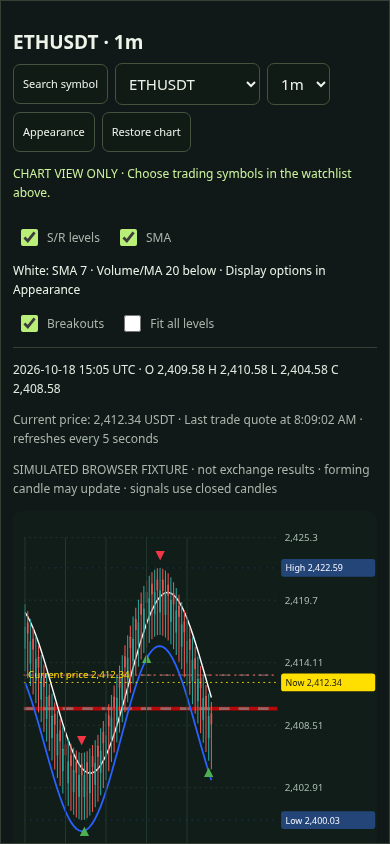
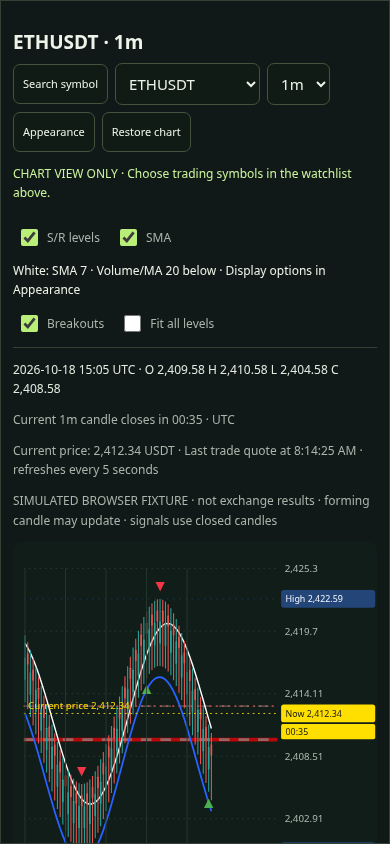
Show second-by-second candle close countdown alongside current price

Changed region(s): [[0.0308, 0.4929, 0.9846, 1.0]]

diff --git a/web/index.html b/web/index.html
@@ -1,3 +1,3 @@
 <!doctype html><html lang="en"><head><meta charset="utf-8"><meta name="viewport" content="width=device-width,initial-scale=1"><meta name="theme-color" content="#101918"><link rel="manifest" href="/manifest.webmanifest"><title>THOTH · Trading desk</title><style>
 *{box-sizing:border-box}[hidden]{display:none!important}body{margin:0;background:#101918;color:#edf3e8;font:15px system-ui}header,main{max-width:1150px;margin:auto;padding:24px}header{display:flex;justify-content:space-between;border-bottom:1px solid #354036}.brand{font-size:25px;letter-spacing:5px;font-weight:bold}small,p,label{color:#a8b5aa}h1{font-size:34px;font-weight:500}h2{font-size:19px}.badge,.green{color:#b9ee79}.badge{border:1px solid #536b43;padding:7px 12px;border-radius:20px;font-size:12px}.stats{display:grid;grid-template-columns:repeat(3,1fr);gap:14px}.card{padding:20px;background:#1a2521;border:1px solid #354036;border-radius:12px;margin-bottom:18px}.value{font-size:29px;margin-top:10px}.grid{display:grid;grid-template-columns:2fr 1fr;gap:20px;margin-top:6px}button,select,input{background:#111b16;color:#edf3e8;border:1px solid #45533e;border-radius:7px;padding:9px;font:inherit}button{cursor:pointer}.primary{background:#b9ee79;color:#13200f}label{display:flex;justify-content:space-between;align-items:center;margin:17px 0;font-size:13px}input[type=number]{width:88px}.row{display:flex;justify-content:space-between;gap:12px;align-items:center}svg{width:100%;height:290px}.legend{font-size:12px;line-height:1.8}table{width:100%;border-collapse:collapse;font-size:13px}td,th{padding:15px 3px;text-align:left;border-bottom:1px solid #354036}th{color:#a8b5aa;font-weight:400}.red{color:#fc9e91}.note{font-size:12px;line-height:1.6}.chips{display:flex;gap:12px;flex-wrap:wrap}.chips label{margin:8px 0;gap:6px}footer{font-size:12px;color:#a8b5aa;padding:20px 0}@media(max-width:750px){.grid{grid-template-columns:1fr}main,header{padding:16px}.stats{gap:8px}.stats .card{padding:12px}.value{font-size:23px}h1{font-size:29px}.row{flex-wrap:wrap}}
-</style><style>#coins{max-height:270px;overflow:auto}#events{padding-left:18px;font-size:12px;color:#a8b5aa;line-height:1.8}#price{width:110px}select{max-width:180px}input[type=search]{width:100%}dialog{max-width:min(480px,90vw);background:#1a2521;color:#edf3e8;border:1px solid #45533e;border-radius:12px}dialog input{max-width:100%}button:disabled{opacity:.5;cursor:not-allowed}fieldset:disabled{opacity:.65}.banner{border:1px solid #90753a;color:#ebce82;padding:12px;border-radius:8px;font-size:13px}</style><link rel="stylesheet" href="/desk.css"></head><body><header><div class="brand">THOTH<span class="green">.</span></div><div><span class="badge" id="fundsBadge">PAPER FUNDS</span> <button id="logout">Sign out</button></div></header><main><div class="banner">Paper, testnet and gated live modes · Live requires account checks and explicit activation. A server opt-in can skip verification; unverified trading can lose real funds. Experimental S/R port: TradingView comparison still pending.</div><div class="row"><h1>Your trading desk</h1><label>Funds view <select id="viewMode"><option value="paper">Paper simulation</option><option value="testnet">Bybit testnet</option><option value="live">LIVE · Real funds</option></select></label><div><button id="start" class="primary">Start paper mode</button> <button id="pause">Pause entries</button></div></div><p class="note"><span id="liveAccountState">Production execution: inactive</span> · Testnet and live use separate credentials</p><p id="readinessMessage" class="note" role="status">Readiness: checking…</p><button id="checkReadiness">Check readiness</button><p id="runnerHealth" class="note">Market worker: connecting</p><p id="status" role="status">Connecting to server…</p><section class="trade-summary" aria-label="Saved trading watchlist"><strong id="savedSymbols">Trading symbols: loading…</strong><p id="chartScope" class="note"></p><button id="editSymbols">Edit trading symbols ↓</button></section><div class="stats"><div class="card"><small id="equityLabel">Paper equity</small><div class="value" id="equity">—</div></div><div class="card"><small id="pnlLabel">Open paper P&L</small><div id="pnl" class="value green">—</div></div><div class="card"><small>Daily loss limit</small><div class="value"><span id="limit">—</span>%</div></div></div><div class="grid"><div><section class="card" id="symbolPanel"><div class="row"><div><small>TRADING WATCHLIST</small><h2>Symbols allowed to trade</h2></div><span id="selection" role="status"></span></div><p class="note">Click a symbol name to open its chart; use its checkbox to allow trading. Only saved selections can trigger orders. Settings are separate for each funds view.</p><input id="search" type="search" placeholder="Search symbols, e.g. ETH or SOL" aria-label="Search trading symbols"><div class="symbol-tools"><button id="selectVisible">Select search results</button><button id="clearSymbols">Clear all</button><button id="onlyChart">Use chart symbol only</button><label><input id="selectedOnly" type="checkbox"> Show selected only</label></div><p id="watchlistLock" class="note"></p><div id="selectedSymbols" class="selected-symbols" aria-label="Draft trading symbols"></div><div class="chips" id="coins"></div><p id="symbolSaveMessage" role="status" class="note"></p><button id="saveSymbols" class="primary">Save strategy &amp; trading symbols</button><p class="note">This saves the whole strategy form, including risk edits. Exchange availability and minimum order sizes are checked before entry.</p></section><section class="card" id="chartCard" role="region" aria-labelledby="title"><div class="row chart-heading"><h2 id="title">Market chart</h2><div><button id="chartSearch" type="button" aria-haspopup="dialog">Search symbol</button><select id="symbol" aria-label="Chart symbol (view only)"></select> <select id="tf" aria-label="Chart timeframe"><option value="1">1m</option><option value="D">1D</option></select><button id="appearanceToggle" type="button" aria-expanded="false" aria-controls="chartAppearance">Appearance</button><button id="maximizeChart" type="button" aria-expanded="false">Maximize chart</button></div></div><p class="chart-scope note">CHART VIEW ONLY · Choose trading symbols in the watchlist above.</p><div class="chart-layers"><label><input id="showLevels" type="checkbox" checked> S/R levels</label><label><input id="showSma" type="checkbox" checked> SMA</label><span class="note">White: SMA 7 · Volume/MA 20 below · Display options in Appearance</span><label><input id="showSignals" type="checkbox" checked> Breakouts</label><label><input id="fitLevels" type="checkbox"> Fit all levels</label></div><div class="chart-workspace"><div class="chart-canvas"><p id="candleInfo" class="note">Hover or tap a candle to inspect OHLC prices.</p><p id="quoteStatus" class="note" role="status">Current price: loading…</p><p id="chartStatus" class="note" role="status"></p><svg id="chart" viewBox="0 0 640 290" role="img" aria-label="Bybit candles and SMA"></svg><p id="chartNavigationStatus" class="note" role="status"></p><div class="chart-nav"><button id="older">← Earlier</button><label>Zoom <input id="zoom" type="range" min="20" max="500" value="70" aria-label="Visible candles"></label><button id="newer">Later →</button><button id="latest">Latest candle</button><button id="resetChartView">Reset view</button><button id="autoPriceScale">Auto price scale</button><button id="refresh">Refresh chart</button><label>Auto refresh<input id="autoChart" type="checkbox" checked></label></div><p class="note">Drag with the mouse to move time and price; scroll the wheel over candles to zoom. Drag or scroll the right price scale to resize prices. High/Low mark visible candles. Every candle has a time tick; hover or tap for its exact UTC minute/date. Reset view restores the chart. Green support / red resistance · Solid long major / dotted long minor · Dashed short-term levels · ▲/▼: confirmed breakouts. Lines show active levels at the viewed rightmost candle, anchored back to their pivots after confirmation. Display settings do not change trading filters.</p></div><aside id="chartAppearance" class="appearance-panel" hidden><div class="row"><h3>Chart appearance</h3><button id="closeAppearance" type="button" aria-label="Close appearance panel">Close</button></div><p class="note">Display only. Saved in this browser, separately from strategy and risk.</p><div id="appearanceFields"></div><button id="resetAppearance" type="button">Restore screenshot styles</button><p id="appearanceStatus" class="note" role="status"></p></aside></div></section><section class="card"><div class="row"><h2><span id="positionsTitle">Paper positions</span> <small id="count"></small></h2><button class="red" id="close">Close all paper positions</button></div><p id="lossProgress" class="note"></p><div style="overflow:auto"><table><thead><tr><th>Symbol</th><th>Side</th><th>Value / leverage</th><th>P&L</th></tr></thead><tbody id="positions"></tbody></table></div><p id="positionNote" class="note"></p></section><section class="card"><h2>Account connection</h2><p id="accountStatus" class="note" role="status">Loading testnet configuration status…</p><p id="accountBalance" class="note" role="status"></p><button id="verifyAccount">Check connection / refresh balance</button><p class="note">Read-only verification. Credentials must be installed privately on your server. No API secrets are entered or displayed here. This check cannot enable trading.</p></section><section class="card" id="paperPanel"><h2>Manual paper test</h2><p class="note">Uses the chart symbol. This bypasses indicator logic to test positions and risk controls. Enter a simulated execution/mark price.</p><form id="paperOrder"><select id="side" aria-label="Paper direction"><option>Long</option><option>Short</option></select> <input id="price" type="number" min="0.00000001" step="any" placeholder="Price" aria-label="Paper price" required> <button>Paper entry / reversal</button> <button type="button" id="mark">Update mark</button></form></section><section class="card"><h2>Activity</h2><ul id="events"></ul></section></div><aside class="card"><h2 id="settingsTitle">Paper strategy & risk</h2><form id="settings"><fieldset id="settingsGroup" style="border:0;padding:0;margin:0;min-width:0"><label>Strategy timeframe<select id="strategyTf"><option value="1">1 minute</option><option value="D">Daily</option></select></label><div id="fields"></div><label>Overall stop margin basis<select id="portfolioBasis"><option value="losing_margin">Losing positions only</option><option value="all_margin">All open positions</option></select></label><div id="testnetControls" hidden><label>Margin mode<select id="marginMode"><option value="isolated">Isolated</option><option value="cross">Cross</option></select></label><label>Dedicated USDT-only account<input type="checkbox" id="dedicated"></label><p id="testnetModeNote" class="note"></p><button type="button" id="baseline">Set new day baseline (flat only)</button><ul id="execution" class="note"></ul></div><button class="primary">Save settings</button></fieldset><p id="message" role="status" class="note"></p></form><p class="note">Settings are saved separately for paper, testnet and live. First observation warms up; only later confirmed breakouts can enter. Pause exchange entries before changing settings. Existing positions keep their original dollar stop. The source port still needs TradingView comparison.</p><p class="note">Daily limit closes every managed position, including winners. Testnet restarts require manually enabling entries; a missed midnight baseline requires a flat-account review. A loss-streak pause blocks entries while stops remain managed.</p><p class="note">The optional overall stop counts losing P&L only; winning gains never offset it. Choose whether its denominator uses losing positions’ initial margin or all open positions’ initial margin. It closes every managed position and requires manual restart.</p></aside></div><footer>THOTH · Chart overlays control display only; strategy filters are saved separately.</footer><dialog id="testnetDialog"><h2 id="activationHeading">Enable Bybit TESTNET orders</h2><p id="activationDescription">This uses testnet funds, not production funds.</p><p id="activationSymbols" class="note"></p><p>Type <strong id="activationPhraseLabel">ENABLE TESTNET ORDERS</strong> to continue.</p><input id="testnetPhrase" autocomplete="off" aria-label="Testnet activation confirmation"><p id="activationError" role="status"></p><button id="activateTestnet" class="primary">Check account and enable</button> <button id="cancelActivation">Cancel</button></dialog><dialog id="chartSearchDialog"><h2>Find a chart symbol</h2><p class="note">Opens a chart only. Trading selection remains unchanged.</p><input id="chartSearchInput" type="search" placeholder="Search ETH, SOL…" aria-label="Search chart symbols"><p id="chartSearchCount" class="note"></p><div id="chartSearchResults" role="group" aria-label="Chart search results"></div><button id="closeChartSearch" type="button">Close</button></dialog><script src="/app.js" defer></script><script src="/chart-ui.js" defer></script><script src="/chart.js" defer></script></main></body></html>
+</style><style>#coins{max-height:270px;overflow:auto}#events{padding-left:18px;font-size:12px;color:#a8b5aa;line-height:1.8}#price{width:110px}select{max-width:180px}input[type=search]{width:100%}dialog{max-width:min(480px,90vw);background:#1a2521;color:#edf3e8;border:1px solid #45533e;border-radius:12px}dialog input{max-width:100%}button:disabled{opacity:.5;cursor:not-allowed}fieldset:disabled{opacity:.65}.banner{border:1px solid #90753a;color:#ebce82;padding:12px;border-radius:8px;font-size:13px}</style><link rel="stylesheet" href="/desk.css"></head><body><header><div class="brand">THOTH<span class="green">.</span></div><div><span class="badge" id="fundsBadge">PAPER FUNDS</span> <button id="logout">Sign out</button></div></header><main><div class="banner">Paper, testnet and gated live modes · Live requires account checks and explicit activation. A server opt-in can skip verification; unverified trading can lose real funds. Experimental S/R port: TradingView comparison still pending.</div><div class="row"><h1>Your trading desk</h1><label>Funds view <select id="viewMode"><option value="paper">Paper simulation</option><option value="testnet">Bybit testnet</option><option value="live">LIVE · Real funds</option></select></label><div><button id="start" class="primary">Start paper mode</button> <button id="pause">Pause entries</button></div></div><p class="note"><span id="liveAccountState">Production execution: inactive</span> · Testnet and live use separate credentials</p><p id="readinessMessage" class="note" role="status">Readiness: checking…</p><button id="checkReadiness">Check readiness</button><p id="runnerHealth" class="note">Market worker: connecting</p><p id="status" role="status">Connecting to server…</p><section class="trade-summary" aria-label="Saved trading watchlist"><strong id="savedSymbols">Trading symbols: loading…</strong><p id="chartScope" class="note"></p><button id="editSymbols">Edit trading symbols ↓</button></section><div class="stats"><div class="card"><small id="equityLabel">Paper equity</small><div class="value" id="equity">—</div></div><div class="card"><small id="pnlLabel">Open paper P&L</small><div id="pnl" class="value green">—</div></div><div class="card"><small>Daily loss limit</small><div class="value"><span id="limit">—</span>%</div></div></div><div class="grid"><div><section class="card" id="symbolPanel"><div class="row"><div><small>TRADING WATCHLIST</small><h2>Symbols allowed to trade</h2></div><span id="selection" role="status"></span></div><p class="note">Click a symbol name to open its chart; use its checkbox to allow trading. Only saved selections can trigger orders. Settings are separate for each funds view.</p><input id="search" type="search" placeholder="Search symbols, e.g. ETH or SOL" aria-label="Search trading symbols"><div class="symbol-tools"><button id="selectVisible">Select search results</button><button id="clearSymbols">Clear all</button><button id="onlyChart">Use chart symbol only</button><label><input id="selectedOnly" type="checkbox"> Show selected only</label></div><p id="watchlistLock" class="note"></p><div id="selectedSymbols" class="selected-symbols" aria-label="Draft trading symbols"></div><div class="chips" id="coins"></div><p id="symbolSaveMessage" role="status" class="note"></p><button id="saveSymbols" class="primary">Save strategy &amp; trading symbols</button><p class="note">This saves the whole strategy form, including risk edits. Exchange availability and minimum order sizes are checked before entry.</p></section><section class="card" id="chartCard" role="region" aria-labelledby="title"><div class="row chart-heading"><h2 id="title">Market chart</h2><div><button id="chartSearch" type="button" aria-haspopup="dialog">Search symbol</button><select id="symbol" aria-label="Chart symbol (view only)"></select> <select id="tf" aria-label="Chart timeframe"><option value="1">1m</option><option value="D">1D</option></select><button id="appearanceToggle" type="button" aria-expanded="false" aria-controls="chartAppearance">Appearance</button><button id="maximizeChart" type="button" aria-expanded="false">Maximize chart</button></div></div><p class="chart-scope note">CHART VIEW ONLY · Choose trading symbols in the watchlist above.</p><div class="chart-layers"><label><input id="showLevels" type="checkbox" checked> S/R levels</label><label><input id="showSma" type="checkbox" checked> SMA</label><span class="note">White: SMA 7 · Volume/MA 20 below · Display options in Appearance</span><label><input id="showSignals" type="checkbox" checked> Breakouts</label><label><input id="fitLevels" type="checkbox"> Fit all levels</label></div><div class="chart-workspace"><div class="chart-canvas"><p id="candleInfo" class="note">Hover or tap a candle to inspect OHLC prices.</p><p id="candleCountdown" class="note" aria-label="Current candle countdown"></p><p id="quoteStatus" class="note" role="status">Current price: loading…</p><p id="chartStatus" class="note" role="status"></p><svg id="chart" viewBox="0 0 640 290" role="img" aria-label="Bybit candles and SMA"></svg><p id="chartNavigationStatus" class="note" role="status"></p><div class="chart-nav"><button id="older">← Earlier</button><label>Zoom <input id="zoom" type="range" min="20" max="500" value="70" aria-label="Visible candles"></label><button id="newer">Later →</button><button id="latest">Latest candle</button><button id="resetChartView">Reset view</button><button id="autoPriceScale">Auto price scale</button><button id="refresh">Refresh chart</button><label>Auto refresh<input id="autoChart" type="checkbox" checked></label></div><p class="note">Drag with the mouse to move time and price; scroll the wheel over candles to zoom. Drag or scroll the right price scale to resize prices. High/Low mark visible candles. Every candle has a time tick; hover or tap for its exact UTC minute/date. Reset view restores the chart. Green support / red resistance · Solid long major / dotted long minor · Dashed short-term levels · ▲/▼: confirmed breakouts. Lines show active levels at the viewed rightmost candle, anchored back to their pivots after confirmation. Display settings do not change trading filters.</p></div><aside id="chartAppearance" class="appearance-panel" hidden><div class="row"><h3>Chart appearance</h3><button id="closeAppearance" type="button" aria-label="Close appearance panel">Close</button></div><p class="note">Display only. Saved in this browser, separately from strategy and risk.</p><div id="appearanceFields"></div><button id="resetAppearance" type="button">Restore screenshot styles</button><p id="appearanceStatus" class="note" role="status"></p></aside></div></section><section class="card"><div class="row"><h2><span id="positionsTitle">Paper positions</span> <small id="count"></small></h2><button class="red" id="close">Close all paper positions</button></div><p id="lossProgress" class="note"></p><div style="overflow:auto"><table><thead><tr><th>Symbol</th><th>Side</th><th>Value / leverage</th><th>P&L</th></tr></thead><tbody id="positions"></tbody></table></div><p id="positionNote" class="note"></p></section><section class="card"><h2>Account connection</h2><p id="accountStatus" class="note" role="status">Loading testnet configuration status…</p><p id="accountBalance" class="note" role="status"></p><button id="verifyAccount">Check connection / refresh balance</button><p class="note">Read-only verification. Credentials must be installed privately on your server. No API secrets are entered or displayed here. This check cannot enable trading.</p></section><section class="card" id="paperPanel"><h2>Manual paper test</h2><p class="note">Uses the chart symbol. This bypasses indicator logic to test positions and risk controls. Enter a simulated execution/mark price.</p><form id="paperOrder"><select id="side" aria-label="Paper direction"><option>Long</option><option>Short</option></select> <input id="price" type="number" min="0.00000001" step="any" placeholder="Price" aria-label="Paper price" required> <button>Paper entry / reversal</button> <button type="button" id="mark">Update mark</button></form></section><section class="card"><h2>Activity</h2><ul id="events"></ul></section></div><aside class="card"><h2 id="settingsTitle">Paper strategy & risk</h2><form id="settings"><fieldset id="settingsGroup" style="border:0;padding:0;margin:0;min-width:0"><label>Strategy timeframe<select id="strategyTf"><option value="1">1 minute</option><option value="D">Daily</option></select></label><div id="fields"></div><label>Overall stop margin basis<select id="portfolioBasis"><option value="losing_margin">Losing positions only</option><option value="all_margin">All open positions</option></select></label><div id="testnetControls" hidden><label>Margin mode<select id="marginMode"><option value="isolated">Isolated</option><option value="cross">Cross</option></select></label><label>Dedicated USDT-only account<input type="checkbox" id="dedicated"></label><p id="testnetModeNote" class="note"></p><button type="button" id="baseline">Set new day baseline (flat only)</button><ul id="execution" class="note"></ul></div><button class="primary">Save settings</button></fieldset><p id="message" role="status" class="note"></p></form><p class="note">Settings are saved separately for paper, testnet and live. First observation warms up; only later confirmed breakouts can enter. Pause exchange entries before changing settings. Existing positions keep their original dollar stop. The source port still needs TradingView comparison.</p><p class="note">Daily limit closes every managed position, including winners. Testnet restarts require manually enabling entries; a missed midnight baseline requires a flat-account review. A loss-streak pause blocks entries while stops remain managed.</p><p class="note">The optional overall stop counts losing P&L only; winning gains never offset it. Choose whether its denominator uses losing positions’ initial margin or all open positions’ initial margin. It closes every managed position and requires manual restart.</p></aside></div><footer>THOTH · Chart overlays control display only; strategy filters are saved separately.</footer><dialog id="testnetDialog"><h2 id="activationHeading">Enable Bybit TESTNET orders</h2><p id="activationDescription">This uses testnet funds, not production funds.</p><p id="activationSymbols" class="note"></p><p>Type <strong id="activationPhraseLabel">ENABLE TESTNET ORDERS</strong> to continue.</p><input id="testnetPhrase" autocomplete="off" aria-label="Testnet activation confirmation"><p id="activationError" role="status"></p><button id="activateTestnet" class="primary">Check account and enable</button> <button id="cancelActivation">Cancel</button></dialog><dialog id="chartSearchDialog"><h2>Find a chart symbol</h2><p class="note">Opens a chart only. Trading selection remains unchanged.</p><input id="chartSearchInput" type="search" placeholder="Search ETH, SOL…" aria-label="Search chart symbols"><p id="chartSearchCount" class="note"></p><div id="chartSearchResults" role="group" aria-label="Chart search results"></div><button id="closeChartSearch" type="button">Close</button></dialog><script src="/app.js" defer></script><script src="/chart-ui.js" defer></script><script src="/chart.js" defer></script></main></body></html>

diff --git a/web/chart.js b/web/chart.js
@@ -62,11 +62,11 @@ function draw(){
  for(const p of positions){line(p.entry,'#edf3e8','Entry '+p.side,'6 4');line(stop(p),'#ff9b91',Number(p.stop)>0?'Exchange stop':'Estimated dollar stop','3 4')}
  const last=rows.at(-1);
  const axisLabelPositions=[];
- function axisLabel(value,label,color){const yy=y(value),onScale=yy>=T&&yy<=B,base=Math.max(T+10,Math.min(B-10,yy));let at=label==='Now'&&onScale?yy:base;if(label!=='Now'){const candidates=[base,...Array.from({length:8},(_,i)=>base+(i%2===0?1:-1)*22*(Math.floor(i/2)+1))];at=candidates.find(candidate=>candidate>=T+10&&candidate<=B-10&&axisLabelPositions.every(other=>Math.abs(candidate-other)>=22))??base;}axisLabelPositions.push(at);const group=shape('g',{'data-extreme':label,'data-price-y':yy});if(onScale&&label!=='Now')shape('path',{d:`M${L} ${yy} H${R}`,stroke:color,'stroke-dasharray':'2 5',opacity:.65},plot);shape('rect',{x:R+4,y:at-10,width:W-R-6,height:20,fill:color,rx:3},group);shape('text',{x:R+9,y:at+4,fill:label==='Now'?'#181b12':'#f5f7ff','font-size':10},group).textContent=label+' '+price(value)+(onScale?'':yy<T?' ↑':' ↓')}
+ function axisLabel(value,label,color){const yy=y(value),onScale=yy>=T&&yy<=B,base=Math.max(T+10,Math.min(B-10,yy));let at=label==='Now'&&onScale?yy:base;if(label!=='Now'){const candidates=[base,...Array.from({length:8},(_,i)=>base+(i%2===0?1:-1)*42*(Math.floor(i/2)+1))];at=candidates.find(candidate=>candidate>=T+10&&candidate<=B-10&&axisLabelPositions.every(other=>Math.abs(candidate-other)>=42))??base;}axisLabelPositions.push(at);const group=shape('g',{'data-extreme':label,'data-price-y':yy});if(onScale&&label!=='Now')shape('path',{d:`M${L} ${yy} H${R}`,stroke:color,'stroke-dasharray':'2 5',opacity:.65},plot);shape('rect',{x:R+4,y:at-10,width:W-R-6,height:20,fill:color,rx:3},group);shape('text',{x:R+9,y:at+4,fill:label==='Now'?'#181b12':'#f5f7ff','font-size':10},group).textContent=label+' '+price(value)+(onScale?'':yy<T?' ↑':' ↓');if(label==='Now'){const timerY=at>B-35?at-29:at+12;shape('rect',{x:R+4,y:timerY,width:W-R-6,height:17,fill:'#ffdf00',rx:2},group);shape('text',{x:R+9,y:timerY+12,fill:'#181b12','font-size':10,'data-candle-countdown':'true'},group).textContent=candleCountdown()}}
  const visibleHigh=Math.max(...rows.map(r=>Number(r.high))),visibleLow=Math.min(...rows.map(r=>Number(r.low)));
  const freshQuote=currentQuote&&currentQuote.symbol===$('symbol').value&&currentQuote.environment===mode&&Date.now()/1000-currentQuote.observed_at<20;
  if(freshQuote&&chartStyle.showLastPrice){axisLabel(currentQuote.price,'Now','#ffdf00');line(currentQuote.price,'#ffdf00','Current price','2 4')}
- axisLabel(visibleHigh,'High','#234578');axisLabel(visibleLow,'Low','#234578');
+ axisLabel(visibleHigh,'High','#234578');axisLabel(visibleLow,'Low','#234578');updateCandleCountdown();
 
  for(const trade of current().trades.filter(t=>t.symbol===$('symbol').value))for(const [stamp,label,color]of [[trade.opened_at,'E','#d7f7ca'],[trade.closed_at,'X','#ffaaa1']]){const t=typeof stamp==='number'?(stamp>1e12?stamp/1000:stamp):Date.parse(stamp)/1000;const i=rows.findIndex((r,j)=>t>=r.time&&t<(rows[j+1]?.time??r.time+($('tf').value==='1'?60:86400)));if(i>=0)shape('text',{x:x(i),y:20,fill:color,'font-size':12,'text-anchor':'middle'}).textContent=label}
  const cross=shape('path',{d:'',stroke:'#d8e5dd','stroke-dasharray':'3 4',opacity:.5,'pointer-events':'none'},plot);

diff --git a/web/app.js b/web/app.js
@@ -1,8 +1,9 @@
 const $=id=>document.getElementById(id);
 let state,tn,lv,watchlist=[],chartRows=[],smaRows=[],analysis=[],polling=false,visibleBars=70,chartOffset=0;
 const accountReadings={};
-let currentQuote=null,quotePending=null;
-async function refreshQuote(){if(!state||!$('symbol').value)return;const symbol=$('symbol').value,environment=mode,key=environment+':'+symbol;if(quotePending===key)return;quotePending=key;try{const data=await api('quote/'+symbol+'?environment='+environment);if(mode!==environment||$('symbol').value!==symbol)return;currentQuote=data;$('quoteStatus').textContent='Current price: '+marketPrice(data.price)+' USDT · Last trade quote at '+new Date(data.observed_at*1000).toLocaleTimeString()+' · refreshes every 5 seconds';draw();const last=chartRows.at(-1);if(last&&!chartLoading&&Date.now()/1000>=last.time+($('tf').value==='D'?86400:60))loadChart(true)}catch{if(mode===environment&&$('symbol').value===symbol){currentQuote=null;$('quoteStatus').textContent='Current price unavailable · historical candles remain visible';draw()}}finally{if(quotePending===key)quotePending=null}}
+let currentQuote=null,quotePending=null,marketClockOffset=0;
+const marketNow=()=>Date.now()+marketClockOffset;
+async function refreshQuote(){if(!state||!$('symbol').value)return;const symbol=$('symbol').value,environment=mode,key=environment+':'+symbol;if(quotePending===key)return;quotePending=key;const clockStarted=Date.now();try{const data=await api('quote/'+symbol+'?environment='+environment);if(mode!==environment||$('symbol').value!==symbol)return;if(Number.isFinite(data.server_time)){const exchangeOffset=Number.isFinite(data.exchange_clock_offset)?data.exchange_clock_offset:0;marketClockOffset=(data.server_time+exchangeOffset)*1000-(clockStarted+Date.now())/2;}currentQuote=data;$('quoteStatus').textContent='Current price: '+marketPrice(data.price)+' USDT · Last trade quote at '+new Date(data.observed_at*1000).toLocaleTimeString()+' · refreshes every 5 seconds';draw();const last=chartRows.at(-1);if(last&&!chartLoading&&Date.now()/1000>=last.time+($('tf').value==='D'?86400:60))loadChart(true)}catch{if(mode===environment&&$('symbol').value===symbol){currentQuote=null;$('quoteStatus').textContent='Current price unavailable · historical candles remain visible';draw()}}finally{if(quotePending===key)quotePending=null}}
 let mode='paper',dirty=false,formDraft=null,chartRequest=0,chartLoading=false;
 const marketPrice=n=>Number(n).toLocaleString('en-US',{maximumFractionDigits:Math.abs(Number(n))<1?Math.min(12,Math.max(6,2-Math.floor(Math.log10(Math.abs(Number(n))||1)))):Math.abs(Number(n))<10?4:2});
 const money=n=>new Intl.NumberFormat('en-US',{style:'currency',currency:'USD'}).format(Number(n||0));

diff --git a/web/chart-ui.js b/web/chart-ui.js
@@ -70,3 +70,14 @@ function synchronizeFormingCandle(rows,quote,context,previous=null){
  // candle, closed history, or any changes to the strategy's analysis records.
  return {rows:[...rows.slice(0,-1),{...last,close:quote.price,high:state.high,low:state.low}],state};
 }
+
+function candleCountdown(nowMilliseconds=marketNow(),interval=$('tf').value){
+ const period=interval==='D'?86400:60,now=Math.floor(nowMilliseconds/1000),remaining=period-((now%period)+period)%period;
+ const seconds=String(remaining%60).padStart(2,'0'),minutes=String(Math.floor(remaining/60)%60).padStart(2,'0');
+ return interval==='D'?String(Math.floor(remaining/3600)).padStart(2,'0')+':'+minutes+':'+seconds:minutes+':'+seconds;
+}
+function updateCandleCountdown(){
+ const text=candleCountdown();for(const node of document.querySelectorAll('[data-candle-countdown]'))node.textContent=text;
+ $('candleCountdown').textContent='Current '+($('tf').value==='D'?'Daily':'1m')+' candle closes in '+text+' · UTC';
+}
+setInterval(updateCandleCountdown,1000);

diff --git a/tools/browser_smoke.py b/tools/browser_smoke.py
@@ -146,7 +146,7 @@ with tempfile.TemporaryDirectory(prefix='thoth-ui-') as d:
    expect(page.locator('[data-sma7]')).to_have_attribute('stroke','#ffffff')
    expect(page.locator('[data-volume-bar]')).to_have_count(70)
    expect(page.locator('[data-volume-ma]')).to_have_attribute('stroke','#f2b84b')
-   expect(page.locator('[data-extreme="Now"] rect')).to_have_attribute('fill','#ffdf00')
+   expect(page.locator('[data-extreme="Now"] rect').first).to_have_attribute('fill','#ffdf00')
    expect(page.locator('[data-price-line="Current price"]')).to_have_attribute('stroke','#ffdf00')
    average=page.evaluate('() => {const r=Array.from({length:25},(_,i)=>({time:i,close:i+1,volume:(i+1)*10}));return [displayAverage(r,7,"close").get(24),displayAverage(r,20,"volume").get(24),displayAverage(r,7,"close").has(5)]}')
    assert average==[22,155,False],average
@@ -178,6 +178,12 @@ with tempfile.TemporaryDirectory(prefix='thoth-ui-') as d:
    assert geometry['close']==103,geometry
    assert abs(geometry['labelCenter']-geometry['priceY'])<.001,geometry
    assert abs(geometry['labelCenter']-geometry['highCenter'])>=22,geometry
+   countdowns=page.evaluate('() => [candleCountdown(0,"1"),candleCountdown(59000,"1"),candleCountdown(60000,"1"),candleCountdown(86399000,"D"),candleCountdown(86400000,"D")]')
+   assert countdowns==['01:00','00:01','01:00','00:00:01','24:00:00'],countdowns
+   expect(page.locator('[data-candle-countdown]')).to_be_visible()
+   timer=page.locator('[data-candle-countdown]').text_content()
+   expect(page.locator('[data-candle-countdown]')).not_to_have_text(timer,timeout=3000)
+   expect(page.locator('#candleCountdown')).to_contain_text('1m candle closes in')
    rays=page.locator('[data-sr-key]');expect(rays).to_have_count(8)
    major=page.locator('[data-sr-key="long_resistance_major"]')
    expect(major).to_have_attribute('stroke','#b70909');expect(major).to_have_attribute('stroke-width','4')
@@ -249,6 +255,6 @@ with tempfile.TemporaryDirectory(prefix='thoth-ui-') as d:
    assert not errors,errors
    assert not activation,activation
    browser.close()
-  print('PASS: desktop/mobile watchlist, separate saved/draft/chart symbols, saves, active-entry lock, mouse dragging in time/price, wheel zoom/reset, right price-axis zoom, visible High/Low, synchronized current price/candle, fixed price-label geometry, yellow current price, right spacing, volume MA20 and white SMA7, minute/day ticks, save-to-chart synchronization, maximization, chart search, S/R ray styles, appearance persistence/reset, mode separation, no JS errors/overflow, no activation requests')
+  print('PASS: desktop/mobile watchlist, separate saved/draft/chart symbols, saves, active-entry lock, mouse dragging in time/price, wheel zoom/reset, right price-axis zoom, visible High/Low, synchronized current price/candle, fixed price-label geometry, second-by-second candle countdown, yellow current price, right spacing, volume MA20 and white SMA7, minute/day ticks, save-to-chart synchronization, maximization, chart search, S/R ray styles, appearance persistence/reset, mode separation, no JS errors/overflow, no activation requests')
  finally:
   server.terminate();server.wait(timeout=15);log.close()

diff --git a/tests/test_market_quote.py b/tests/test_market_quote.py
@@ -22,3 +22,13 @@ class QuoteTests(unittest.TestCase):
             body={'retCode':0,'result':{'list':[{'symbol':symbol,'lastPrice':value}]}}
             with patch('thoth.market.urlopen',side_effect=lambda *a,**k:io.BytesIO(json.dumps(body).encode())):
                 with self.assertRaises(ValueError):quote('ETHUSDT','live')
+
+    def test_clock_advances_even_when_price_quote_is_cached(self):
+        now=[1792300001.]
+        body={'retCode':0,'time':(now[0]-.1)*1000,'result':{'list':[{'symbol':'ETHUSDT','lastPrice':'2430.12'}]}}
+        with patch('thoth.market.urlopen',side_effect=lambda *a,**k:io.BytesIO(json.dumps(body).encode())) as request,patch('thoth.market.time',side_effect=lambda:now[0]):
+            first=quote('ETHUSDT','live');now[0]+=2;second=quote('ETHUSDT','live')
+            self.assertEqual(request.call_count,1)
+            self.assertEqual(second['observed_at'],first['observed_at'])
+            self.assertEqual(second['server_time'],first['server_time']+2)
+            self.assertAlmostEqual(second['exchange_clock_offset'],-.1,places=5)

diff --git a/thoth/market.py b/thoth/market.py
@@ -36,7 +36,7 @@ from time import time
 
 def quote(symbol, environment='live'):
     """Public last-traded price, cached for five seconds; never sends credentials."""
-    return dict(_quote(symbol, environment, int(time() // 5)))
+    return dict(_quote(symbol, environment, int(time() // 5)),server_time=time())
 
 
 @lru_cache(maxsize=256)
@@ -52,4 +52,7 @@ def _quote(symbol, environment, bucket):
         raise ValueError('Quote unavailable')
     price=float(rows[0]['lastPrice'])
     if not isfinite(price) or price<=0:raise ValueError('Invalid quote')
-    return dict(symbol=symbol,environment=environment,price=price,observed_at=time())
+    observed=time()
+    exchange=float(result.get('time',observed*1000))/1000
+    if not isfinite(exchange):exchange=observed
+    return dict(symbol=symbol,environment=environment,price=price,observed_at=observed,exchange_clock_offset=exchange-observed)

diff --git a/README.md b/README.md
@@ -161,3 +161,7 @@ The chart adds a separate volume pane with bullish/bearish bars and a simple 20-
 Each fresh public quote now updates the displayed forming candle's close and observed high/low, including its display SMA 7. This does not mutate fetched candle records, volume, closed candles or strategy analysis. Quotes for another symbol/environment, stale quotes, and quotes outside that candle's time window are ignored for candle synchronization. At a candle boundary the live view requests fresh candle data rather than inventing a new bar.
 
 The yellow price label stays at the exact price-line height when on scale. High/Low labels move to avoid it; they cannot shift the current-price label. Manual off-scale prices retain directional tags. Refresh cadence remains five seconds for quotes and fifteen seconds for candles, subject to network availability; this is not a tick-by-tick WebSocket feed.
+
+### Candle countdown
+
+A second-by-second countdown appears under the yellow current-price tag and above the chart: `MM:SS` for 1m and `HH:MM:SS` for Daily, counting to UTC candle boundaries. It uses the available Bybit clock offset plus a fresh server-time sample even when the five-second price quote is cached. The device clock is the fallback before synchronization. The timer tracks the current market candle, including while viewing history; it does not predict a signal or submit orders. Hiding the current-price tag also hides its attached timer; the separate countdown readout remains visible. Quote refresh cadence remains five seconds.
